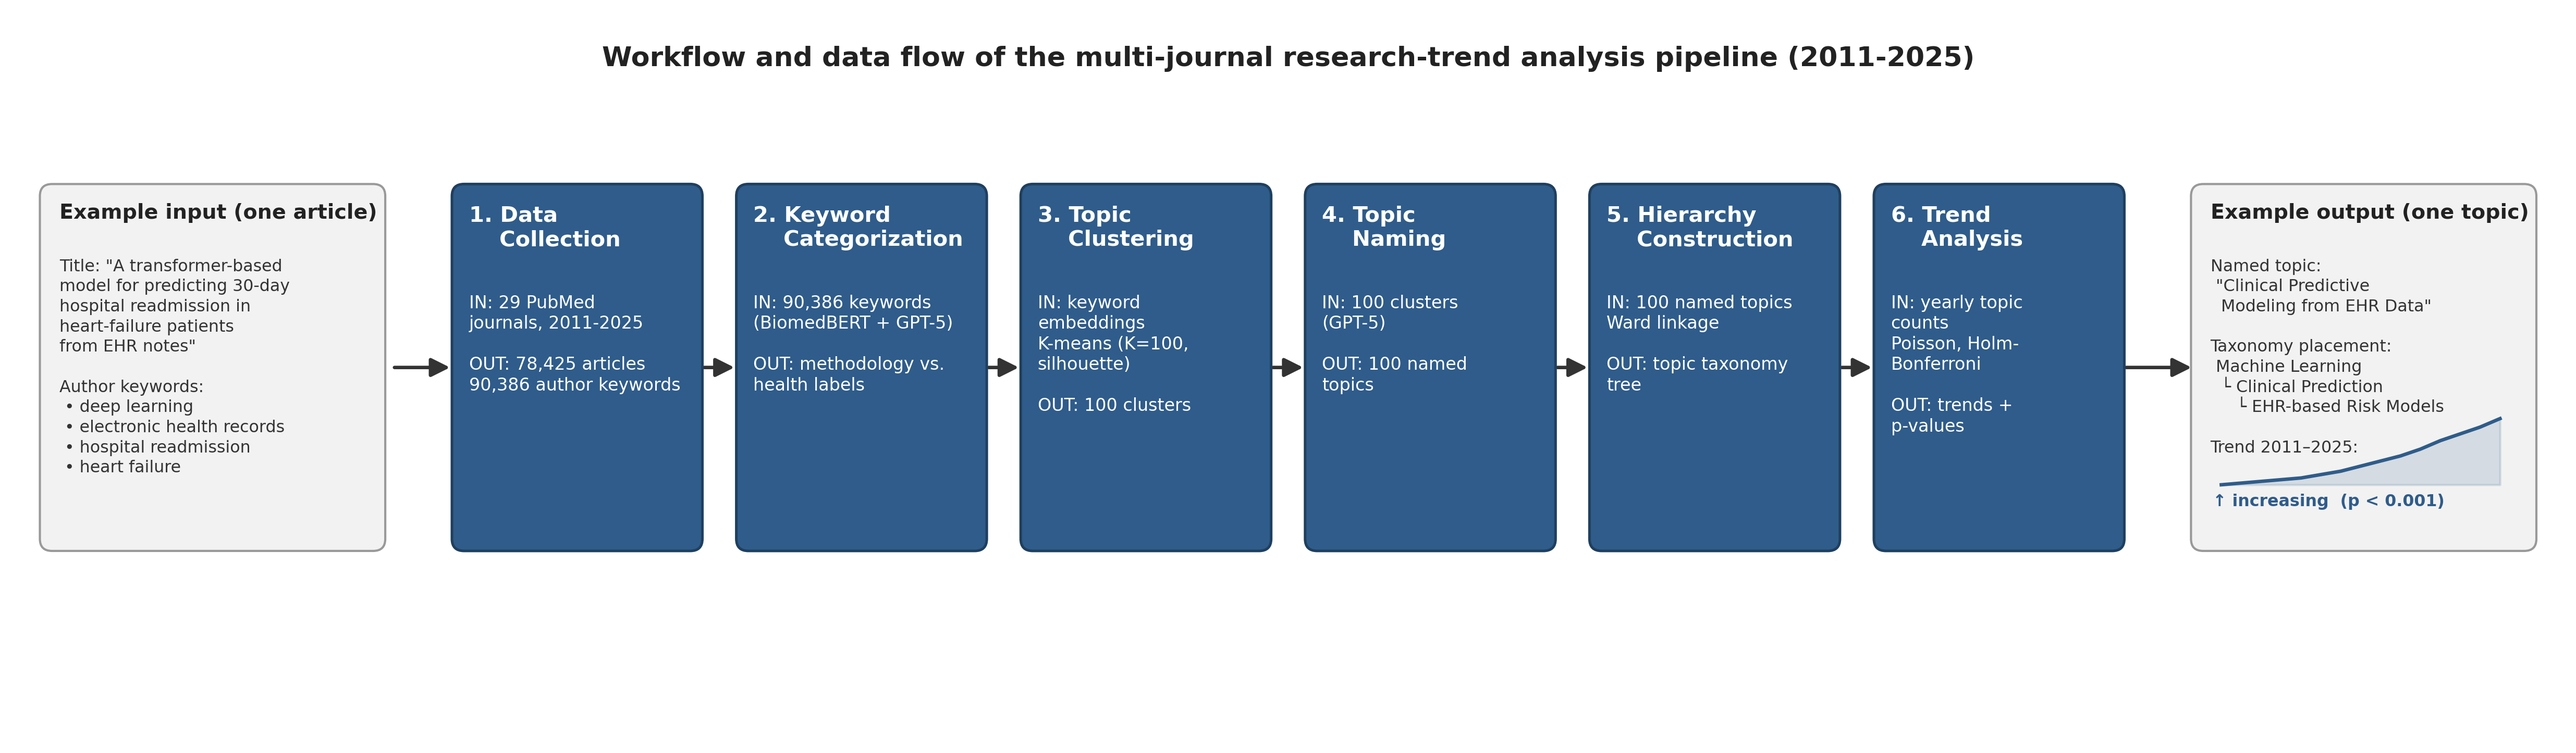
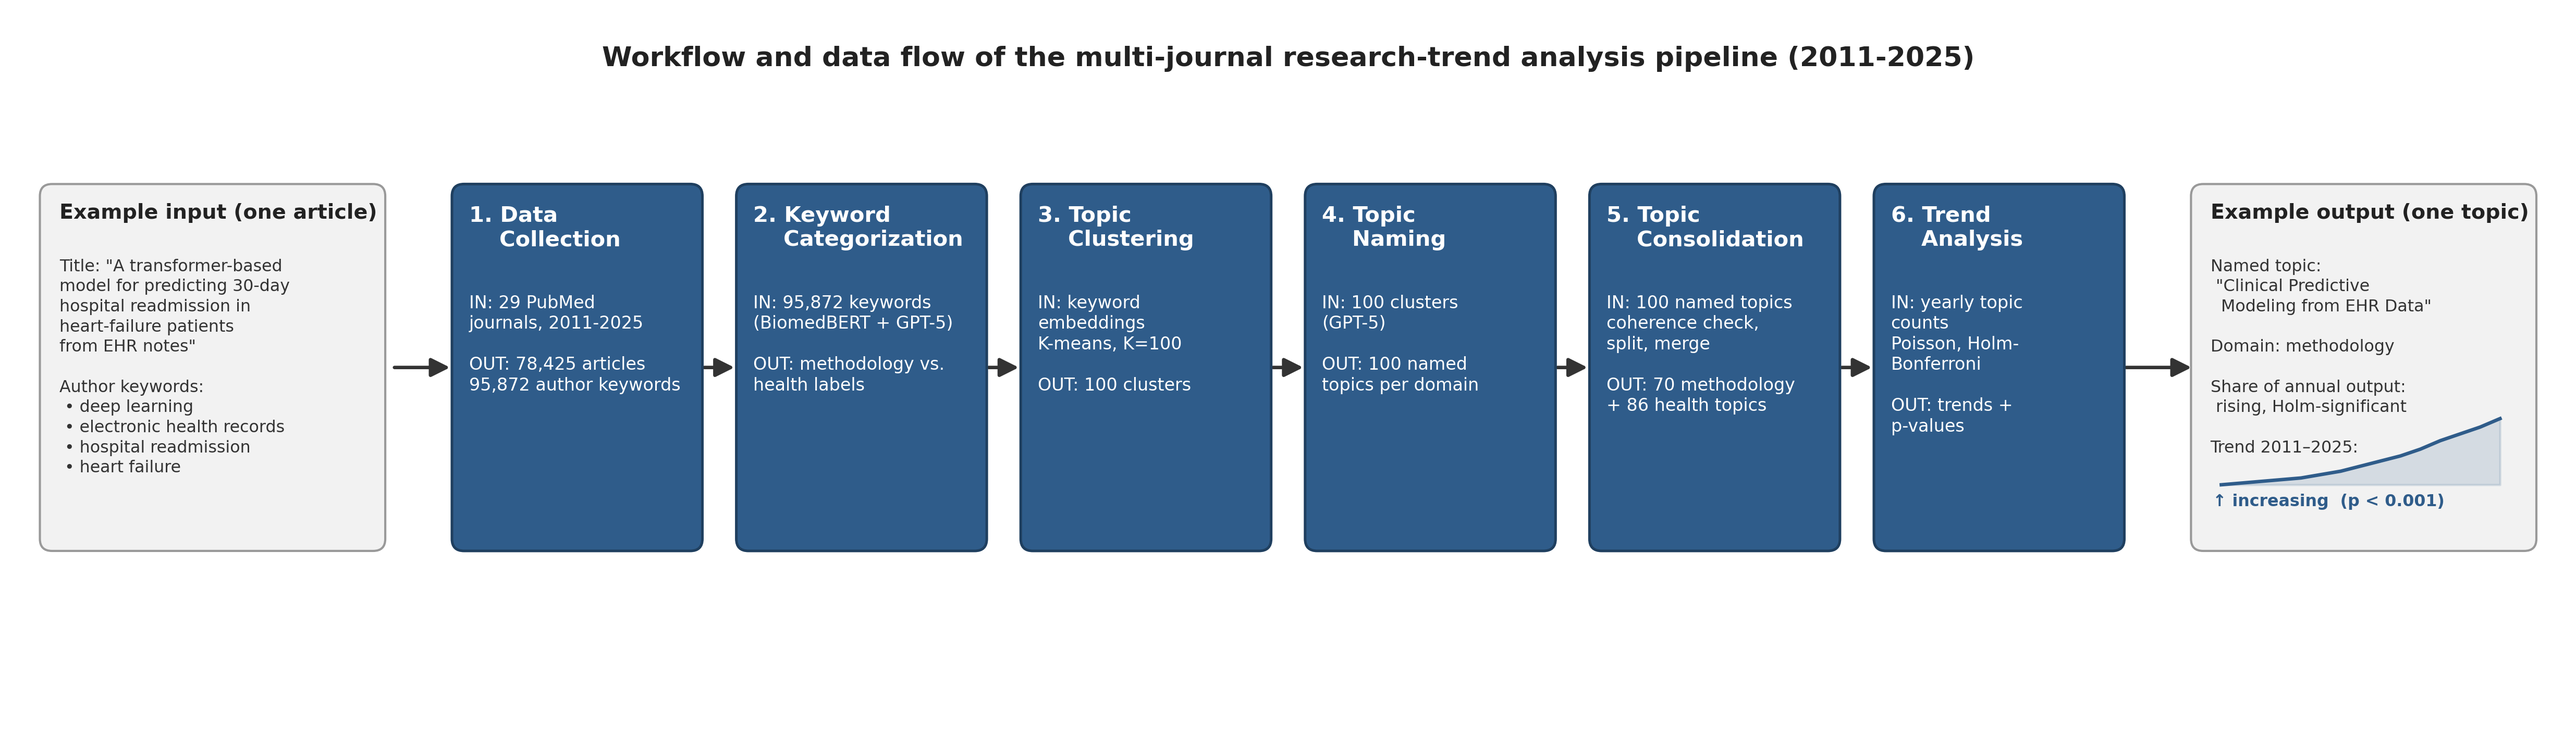
Bring Figure 1 into line with the manuscript
The pipeline diagram had drifted from what the paper describes:

- Stage 5 read "Hierarchy Construction / Ward linkage" and the example output
  showed a taxonomy tree. Neither survives in the manuscript: the hierarchy /
  taxonomy-construction content was cut, and Ward linkage appears nowhere in
  the text. Section 3.2 instead describes consolidating the K=100 clusters into
  70 methodology and 86 health named topics, so the stage is now "Topic
  Consolidation" with that input and output.
- Author-keyword count was 90,386 in stages 1 and 2; the corpus carries 95,872
  distinct keywords (verify_manuscript_numbers.py, section A).
- Stage 3 read "K-means (K=100, silhouette)", overstating silhouette's role.
  Supplementary Note S1.1 reports that silhouette peaks at K=2 and corroborates
  rather than selects K, so the parenthetical is dropped.
- Stage 4 output clarified as 100 named topics per domain.

This was the last figure still asserting the removed taxonomy stage, which also
settles reference 24 (Ward 1963): nothing cites it and it can be dropped.

diff --git a/figures/build_figure1_pipeline.py b/figures/build_figure1_pipeline.py
@@ -45,13 +45,13 @@ STAGES = [
         "title": "1. Data\n    Collection",
         "subtext": (
             "IN: 29 PubMed\njournals, 2011-2025\n\n"
-            "OUT: 78,425 articles\n90,386 author keywords"
+            "OUT: 78,425 articles\n95,872 author keywords"
         ),
     },
     {
         "title": "2. Keyword\n    Categorization",
         "subtext": (
-            "IN: 90,386 keywords\n"
+            "IN: 95,872 keywords\n"
             "(BiomedBERT + GPT-5)\n\n"
             "OUT: methodology vs.\nhealth labels"
         ),
@@ -60,7 +60,7 @@ STAGES = [
         "title": "3. Topic\n    Clustering",
         "subtext": (
             "IN: keyword\nembeddings\n"
-            "K-means (K=100,\nsilhouette)\n\n"
+            "K-means, K=100\n\n"
             "OUT: 100 clusters"
         ),
     },
@@ -69,15 +69,15 @@ STAGES = [
         "subtext": (
             "IN: 100 clusters\n"
             "(GPT-5)\n\n"
-            "OUT: 100 named\ntopics"
+            "OUT: 100 named\ntopics per domain"
         ),
     },
     {
-        "title": "5. Hierarchy\n    Construction",
+        "title": "5. Topic\n    Consolidation",
         "subtext": (
             "IN: 100 named topics\n"
-            "Ward linkage\n\n"
-            "OUT: topic taxonomy\ntree"
+            "coherence check,\nsplit, merge\n\n"
+            "OUT: 70 methodology\n+ 86 health topics"
         ),
     },
     {
@@ -312,10 +312,9 @@ def build_figure(out_path: str):
             "Named topic:\n"
             ' "Clinical Predictive\n'
             '  Modeling from EHR Data"\n\n'
-            "Taxonomy placement:\n"
-            " Machine Learning\n"
-            "  └ Clinical Prediction\n"
-            "     └ EHR-based Risk Models\n\n"
+            "Domain: methodology\n\n"
+            "Share of annual output:\n"
+            " rising, Holm-significant\n\n"
             "Trend 2011–2025:"
         ),
     )
